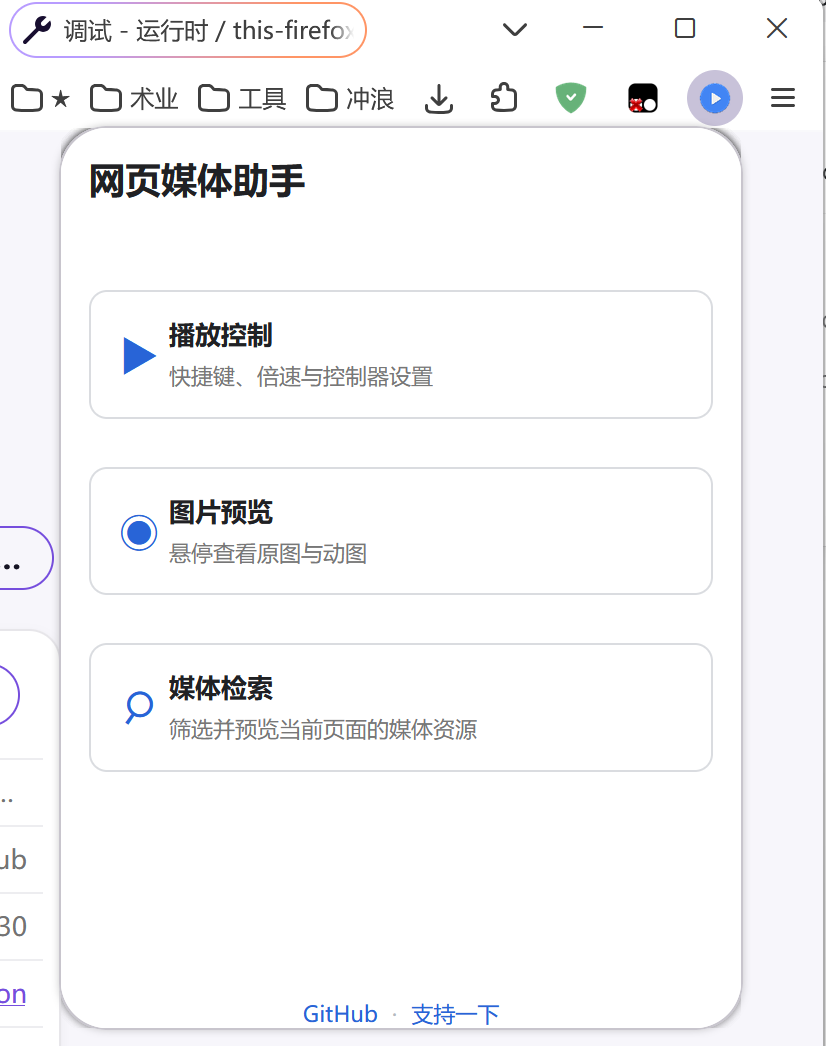
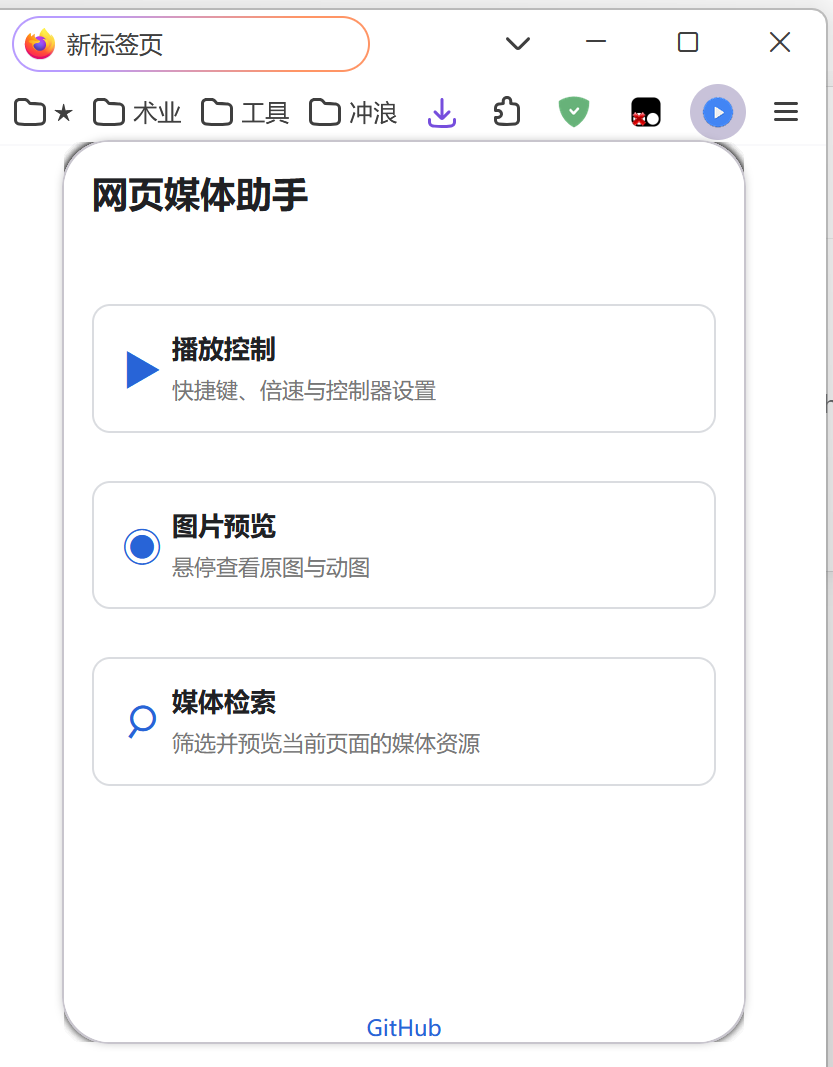
Update screenshots and release 0.1.38

diff --git a/popup.css b/popup.css
@@ -28,7 +28,6 @@ input[type="text"], input[type="number"], textarea { caret-color: auto; }
 .subpage-header { position: sticky; top: 0; z-index: 4; display: grid; grid-template-columns: auto minmax(0, 1fr); gap: 10px; align-items: center; min-height: 52px; padding: 6px 0 9px; margin-bottom: 7px; border-bottom: 1px solid #edf0f2; background: #fff; }
 .subpage-header b, .subpage-header small { display: block; }
 .subpage-header small { margin-top: 3px; overflow: hidden; color: #777; font-size: 10px; line-height: 1.25; text-overflow: ellipsis; white-space: nowrap; }
-#donationPanel .subpage-header small { overflow: visible; line-height: 1.4; text-overflow: clip; white-space: normal; }
 .back-button { align-self: stretch; padding: 0 8px; border: 1px solid #d2d6dc; border-radius: 6px; color: #2864d7; background: #fff; font-size: 11px; }
 .back-button:hover { background: #eef3fc; }
 .card-icon { font-size: 20px; color: #2864d7; text-align: center; }
@@ -38,7 +37,6 @@ input[type="text"], input[type="number"], textarea { caret-color: auto; }
 .app-footer { display: flex; align-items: center; justify-content: center; gap: 7px; margin-top: auto; padding: 12px 0 0; color: #9aa0a6; font-size: 11px; }
 .app-footer a, .footer-link { color: #2864d7; text-decoration: none; }
 .footer-link { padding: 0; border: 0; background: transparent; font-size: inherit; }
-.footer-separator { color: #b4b9bf; }
 .app-footer a:hover, .footer-link:hover { text-decoration: underline; }
 .feature-header { grid-template-columns: auto minmax(0, 1fr) auto; }
 .feature-switch { display: flex; align-items: center; margin-right: 5px; cursor: pointer; user-select: none; }
@@ -92,7 +90,6 @@ input[type="text"], input[type="number"], textarea { caret-color: auto; }
 .capture-quality:disabled { color: #999; background: #f5f5f5; border-color: #ddd; cursor: not-allowed; }
 .capture-preview { display: block; width: 100%; max-height: 170px; margin-top: 7px; border-radius: 4px; background: #000; }
 .capture-preview-error { display: block; margin-top: 6px; color: #b3261e; font-size: 10px; line-height: 1.35; }
-.donation-code { display: block; width: min(100%, 230px); height: auto; margin: 8px auto 0; border-radius: 8px; }
 .rules-box { margin-top: 12px; border: 1px solid #dfe4ea; border-radius: 7px; background: #fff; overflow: hidden; }
 .rules-box > summary { cursor: pointer; list-style: none; }
 .rules-box > summary::-webkit-details-marker { display: none; }

diff --git a/popup.html b/popup.html
@@ -17,7 +17,7 @@
         <button type="button" class="menu-card" data-page="playbackPanel"><span class="card-icon">▶</span><span><b data-i18n="playbackControlTitle">播放控制</b><small data-i18n="playbackControlSubtitle">快捷键、倍速与控制器设置</small></span></button>
         <button type="button" class="menu-card" data-page="imagePreviewPanel"><span class="card-icon">◉</span><span><b data-i18n="imagePreviewTitle">图片预览</b><small data-i18n="imagePreviewSubtitle">悬停查看原图与动图</small></span></button>
         <button type="button" class="menu-card" data-page="capturePanel"><span class="card-icon media-search-icon">⌕</span><span><b data-i18n="mediaCaptureTitle">媒体检索</b><small data-i18n="mediaCaptureSubtitle">筛选、预览并下载当前页面的媒体资源</small></span></button>
-        <footer class="app-footer"><a class="footer-link" href="https://github.com/shelus2021/web-media-assistant" target="_blank" rel="noopener noreferrer">GitHub</a><span class="footer-separator" aria-hidden="true">·</span><button type="button" class="footer-link" data-page="donationPanel" data-i18n="supportTitle">支持一下</button></footer>
+        <footer class="app-footer"><a class="footer-link" href="https://github.com/shelus2021/web-media-assistant" target="_blank" rel="noopener noreferrer">GitHub</a></footer>
       </div>
 
       <section id="playbackPanel" class="subpage hidden">
@@ -118,7 +118,6 @@
         <button type="button" id="saveImagePreviewShortcuts" class="primary" data-i18n="saveImagePreviewShortcuts">保存预览快捷键</button><button type="button" id="resetImagePreviewShortcuts" class="reset-button" data-i18n="resetImagePreviewShortcuts">恢复 JSON 默认快捷键</button>
       </section>
 
-      <section id="donationPanel" class="subpage hidden"><div class="subpage-header"><button type="button" class="back-button" data-back="mainMenu" data-i18n="back">返回</button><span><b data-i18n="supportTitle">支持一下</b><small data-i18n="supportSubtitle">本扩展仅用于学习交流，如果你觉得有所收获，可以请我喝瓶水~</small></span></div><img class="donation-code" src="support.jpg" alt="收款码" data-i18n-alt="donationCodeAlt" /></section>
     </main>
   </body>
 </html>

diff --git a/js/hls-downloader.js b/js/hls-downloader.js
@@ -6,7 +6,7 @@
     const jobs = new Map();
     const jobStates = new Map();
     const requestReferers = new Map();
-    const popupPanels = new Set(["mainMenu", "playbackPanel", "shortcutsPanel", "generalPanel", "capturePanel", "imagePreviewPanel", "imagePreviewSettingsPanel", "imagePreviewShortcutsPanel", "donationPanel"]);
+    const popupPanels = new Set(["mainMenu", "playbackPanel", "shortcutsPanel", "generalPanel", "capturePanel", "imagePreviewPanel", "imagePreviewSettingsPanel", "imagePreviewShortcutsPanel"]);
     let popupPanel = "mainMenu";
     let nextJobId = 1;
     let mp4boxLoader;
